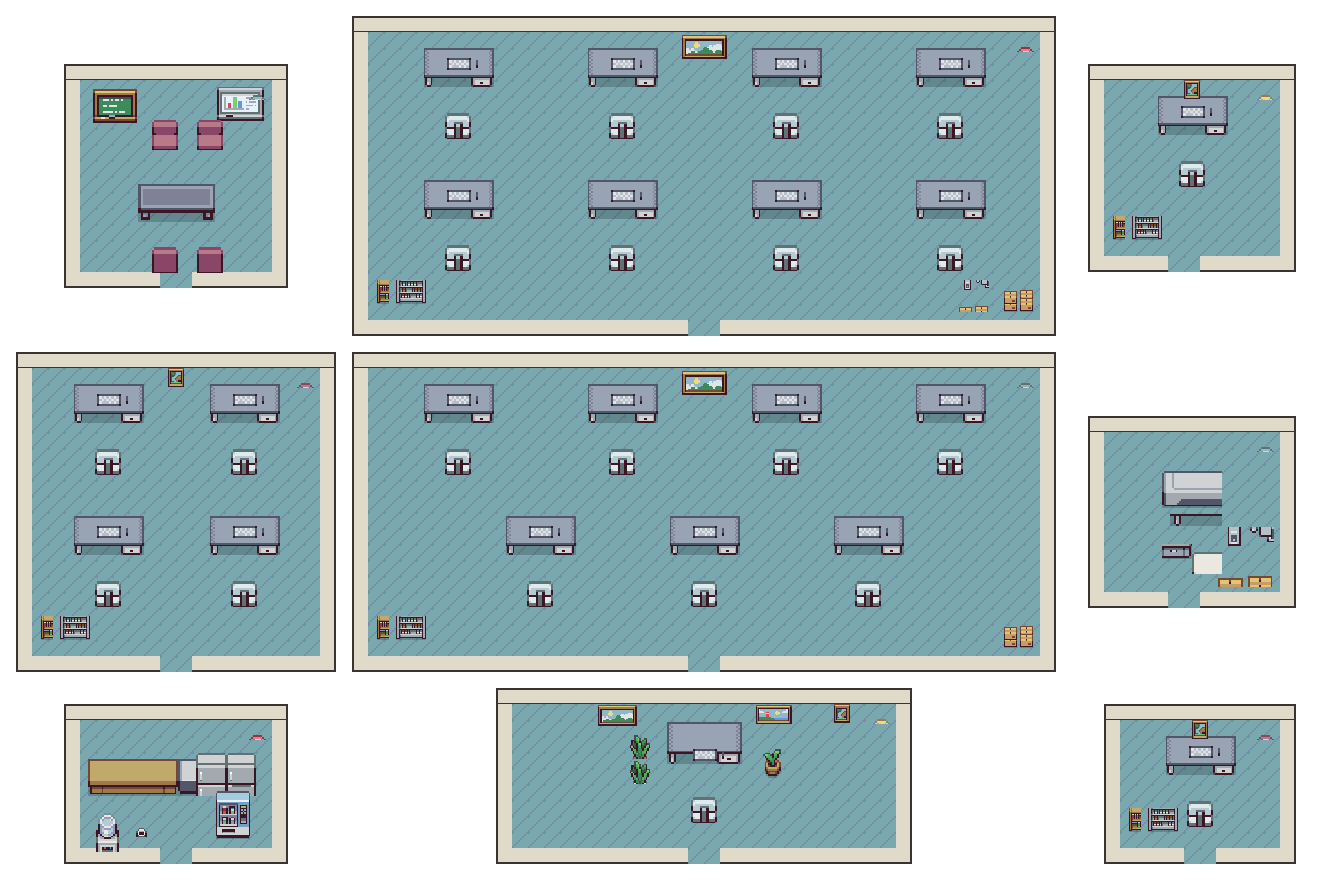
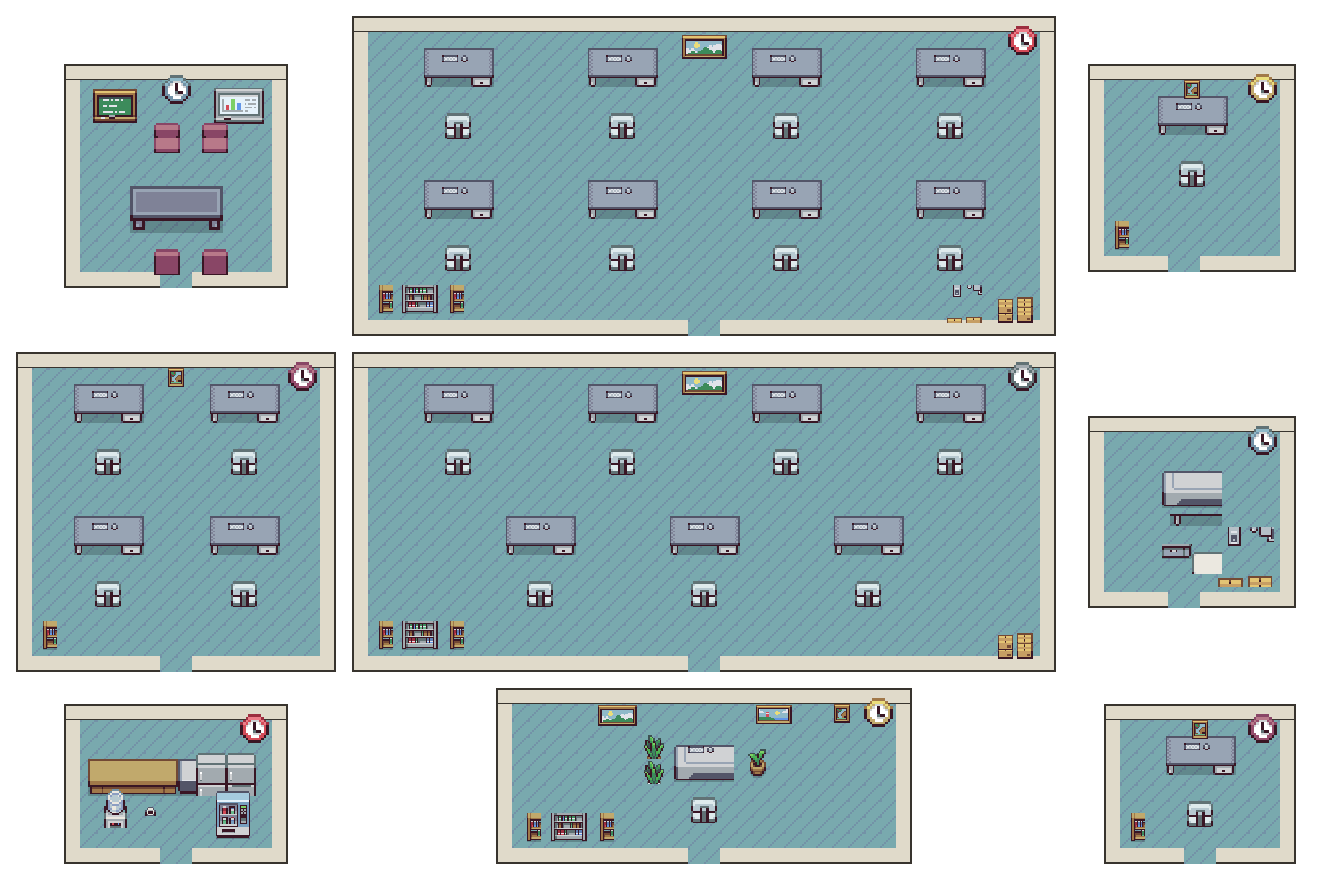
fix(office): full clocks, keyboard+mouse (no monitor), white table founder, more shelves
- Clock: blit the full clock FACE (body was in row 23, only top was showing);
  meeting-room clock centered on the back wall with the boards.
- Keyboard blit now grabs only the keys+mouse band (was pulling in the monitor
  stand + phone).
- Founder desk = the white table (c8,r4, matches the 休息室 one); all other
  agents keep the light desk.
- More shelves (wood+grey row) in 教學組/資訊部/founder; shelves sized to clear
  the bottom wall. 茶水間 water cooler moved north off the wall. Bigger meeting
  bench with tighter chair gaps. ART_VERSION 24.

diff --git a/ui/src/lib/office-sprite-catalog.ts b/ui/src/lib/office-sprite-catalog.ts
@@ -96,7 +96,7 @@ export const CATALOG_MANIFEST_URL = "/assets/office-characters/manifest.json";
 // Bump when the sprite PNGs are regenerated — the filenames stay the same, so
 // without this the browser serves stale cached images. Appended as ?v= to every
 // sprite URL so a redeploy always shows the latest art.
-export const ART_VERSION = "23";
+export const ART_VERSION = "24";
 
 /** Append the art-version cache-buster to a sprite URL. */
 export function bustCache(url: string): string {